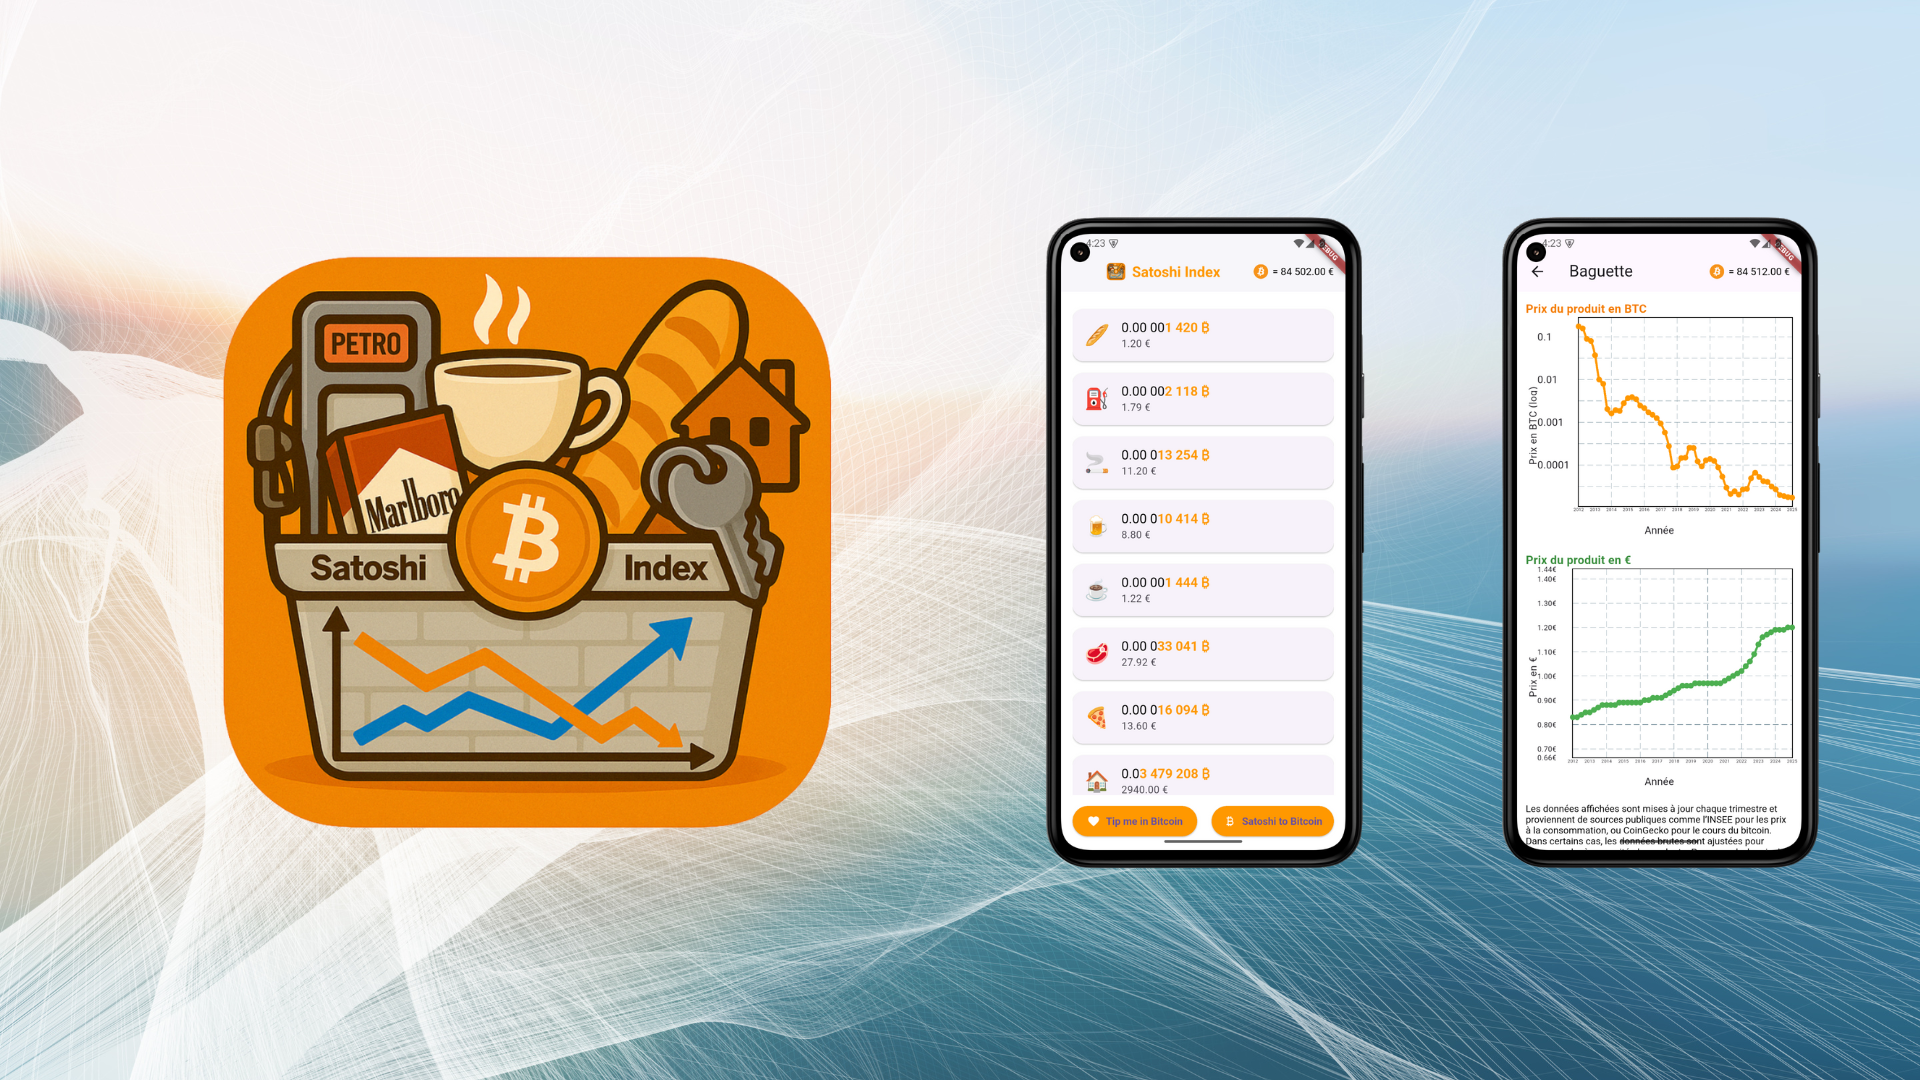
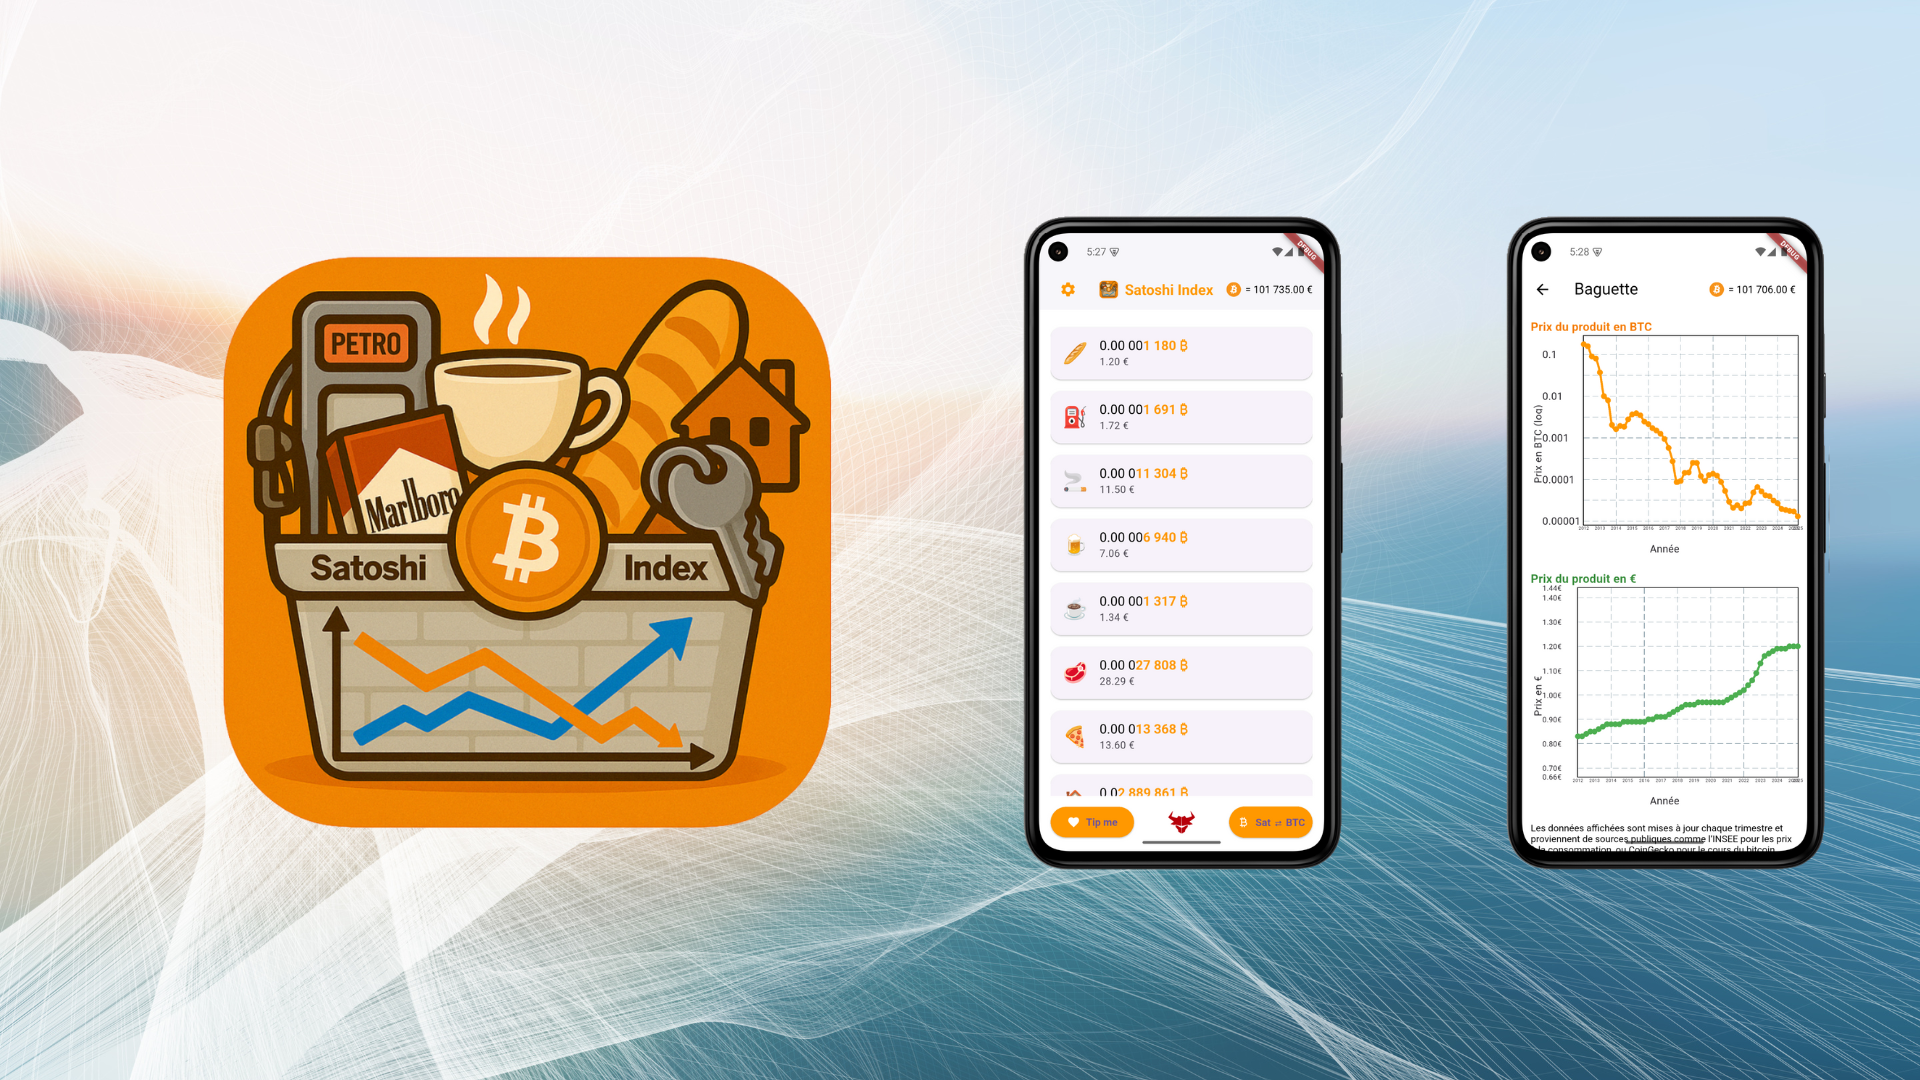
updates images readme

Changed region(s): [[0.7812, 0.1833, 0.9688, 0.825], [0.5312, 0.1833, 0.7188, 0.825], [0.8438, 0.5806, 0.875, 0.6111]]

diff --git a/README.md b/README.md
@@ -67,6 +67,9 @@ Voici la liste complète des produits actuellement disponibles dans l’applicat
 
 ![002](lib/assets/images/002.png)  
 ![003](lib/assets/images/003.png) 
+![004](lib/assets/images/004.png) 
+![005](lib/assets/images/005.png) 
+![006](lib/assets/images/006.png) 
 
 ---
 
